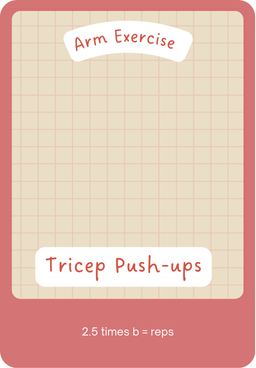
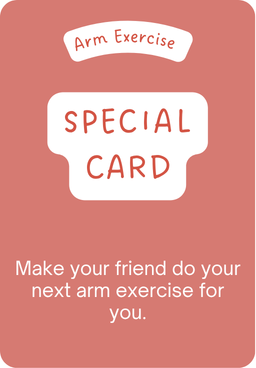
added red cards

diff --git a/sketch.js b/sketch.js
@@ -146,8 +146,10 @@ function setupUI() {
   cardioCard.style.display = "none";
 
   //this works so once done with all cards then put them here
-  fronts = ["one.png", "two.png"];
-  frontCard = fronts[Math.floor(Math.random() * fronts.length)]
+  fronts = ["one.png", "two.png", "three.png", "four.png", "five.png", "six.png", "seven.png", "eight.png", "nine.png", "ten.png", "eleven.png", "twelve.png", "thirteen.png", "fourteen.png", "fifteen.png", "sixteen.png", "seventeen.png", "eighteen.png", "nineteen.png", "twenty.png", "twentyone.png", "twentytwo.png", "twentythree.png"];
+  // frontCard = fronts[Math.floor(Math.random() * fronts.length)] --> needs to be inside click function bc if not then always same index then same card
+  // console.log(frontCard);
+  // fronts.splice(fronts.indexOf(frontCard), 1);
 
 
   restartBtn = document.querySelector(".restart-button");
@@ -263,6 +265,7 @@ function setupEventListeners() {
     armCard.style.display = "block";
     closeCardBtn.style.display = "block";
 
+    frontCard = fronts[Math.floor(Math.random() * fronts.length)]
     armCard.style.backgroundImage = `url(assets/front-of-card/red/${frontCard})`;
     armCard.style.backgroundSize = "cover"; 
     armCard.style.backgroundPosition = "center"; 